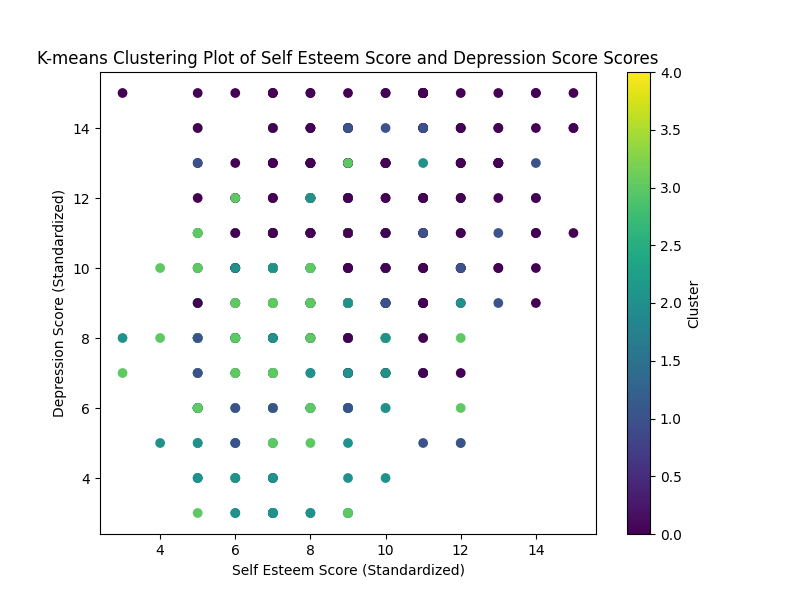
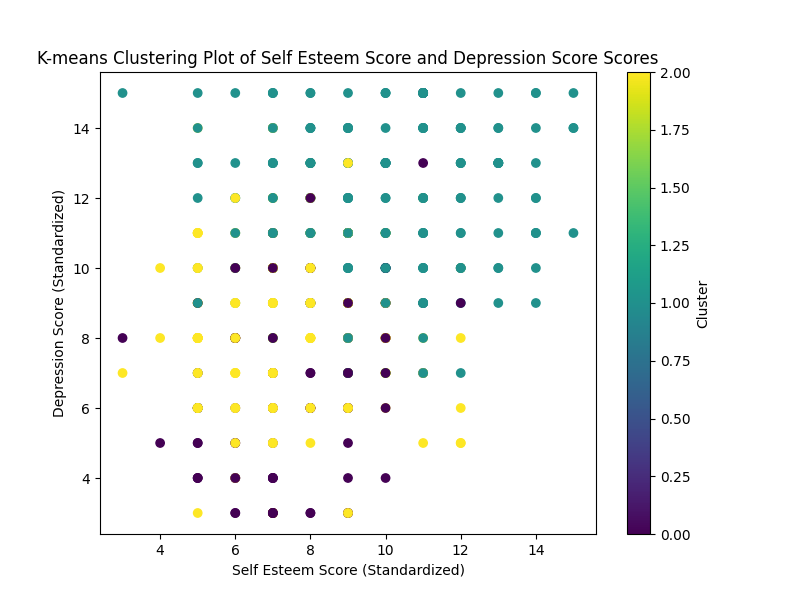
finish

diff --git a/pyspark/model.py b/pyspark/model.py
@@ -29,7 +29,7 @@ def find_k(df, initial_k, K):
     return max(silhouette_score, key=silhouette_score.get), list(silhouette_score.values())
 
 
-def train_fit(df, k=5):
+def train_fit(df, k=3):
     evaluator = ClusteringEvaluator(predictionCol='cluster',
                                     featuresCol='scaledFeatures',
                                     metricName='silhouette',

diff --git a/pyspark/data_preprocessing.py b/pyspark/data_preprocessing.py
@@ -163,8 +163,4 @@ def preprocess(spark, df):
                                          'Self Esteem Score', 'Depression Score', 'Total Score'])
     print("Correlation histograms generated.")
 
-    # print("Standaridize dataset...")
-    # final_df = standardize_data(df)
-    # print(final_df.show(5))
-
     return df
